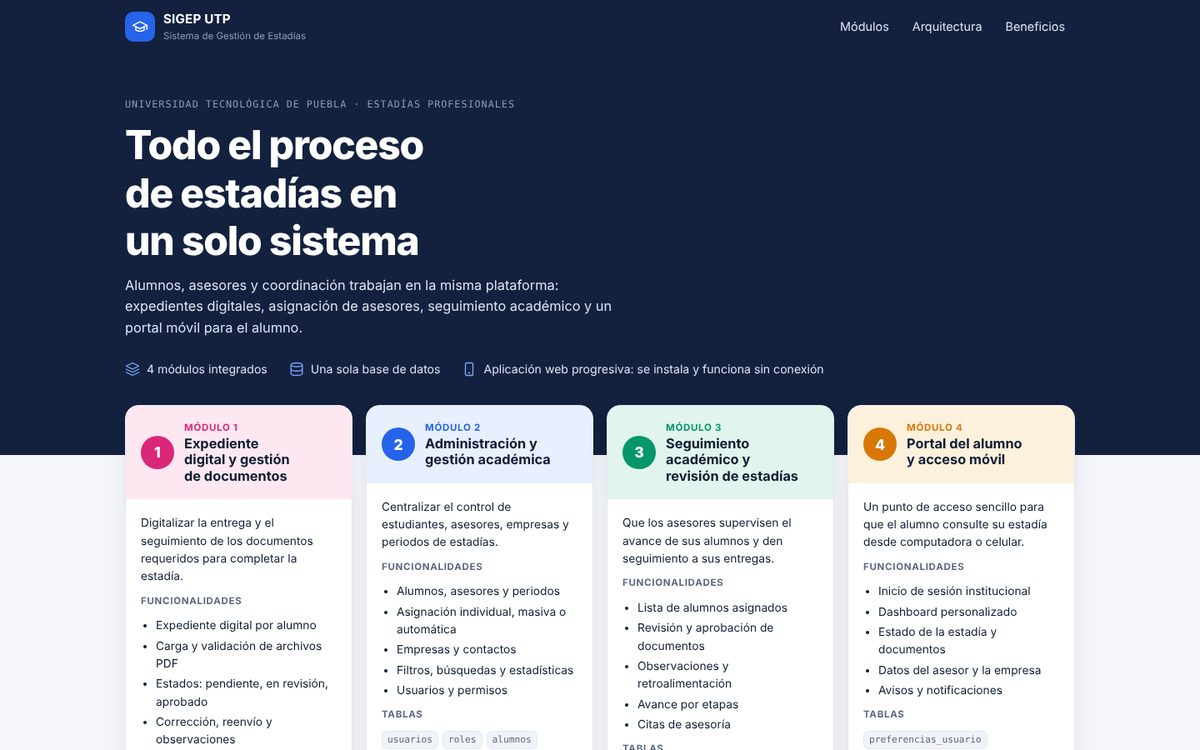
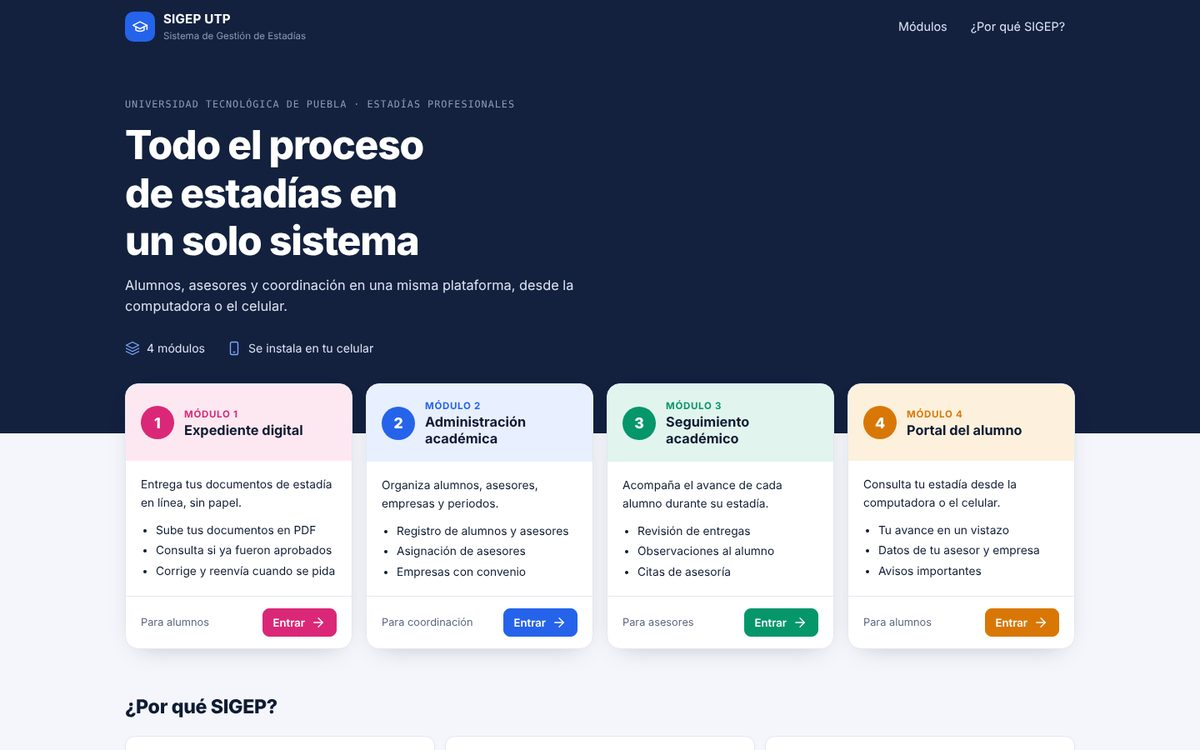
Portal: información más breve y pensada para el público
Claude-Session: https://claude.ai/code/session_01JtbevFPkcj9SLz8sLNxuvT

diff --git a/index.html b/index.html
@@ -26,7 +26,7 @@
   .facts svg.i{color:#7FA6FF}
   .mods{display:grid;grid-template-columns:repeat(4,1fr);gap:16px;margin-top:-60px}
   .mod{background:var(--surface);border:1px solid var(--line);border-radius:var(--r-lg);overflow:hidden;display:flex;flex-direction:column;box-shadow:0 10px 30px -18px rgba(15,27,51,.35)}
-  .mod-top{background:var(--acento-soft);padding:18px;display:flex;gap:12px;align-items:center}
+  .mod-top{background:var(--acento-soft);padding:18px;display:flex;gap:12px;align-items:center;min-height:92px}
   .mod-n{width:40px;height:40px;border-radius:50%;background:var(--acento);color:#fff;display:grid;place-items:center;font-weight:800;font-size:1.1rem;flex:none}
   .mod-top small{display:block;font-size:.72rem;font-weight:700;letter-spacing:.06em;text-transform:uppercase;color:var(--acento)}
   .mod-top h3{font-size:1.02rem;font-weight:700;color:var(--text)}
@@ -58,7 +58,7 @@
 <header class="p-head">
   <div class="wrap">
     <a class="logo" href="#"><span class="logo-mark"><i data-ic="cap" data-s="20"></i></span><span><b>SIGEP UTP</b><small>Sistema de Gestión de Estadías</small></span></a>
-    <nav class="p-nav"><a href="#modulos">Módulos</a><a href="#arquitectura">Arquitectura</a><a href="#beneficios">Beneficios</a></nav>
+    <nav class="p-nav"><a href="#modulos">Módulos</a><a href="#beneficios">¿Por qué SIGEP?</a></nav>
   </div>
 </header>
 
@@ -66,87 +66,60 @@
   <div class="wrap">
     <span class="eyebrow">Universidad Tecnológica de Puebla · Estadías profesionales</span>
     <h1>Todo el proceso de estadías en un solo sistema</h1>
-    <p>Alumnos, asesores y coordinación trabajan en la misma plataforma: expedientes digitales, asignación de asesores, seguimiento académico y un portal móvil para el alumno.</p>
+    <p>Alumnos, asesores y coordinación en una misma plataforma, desde la computadora o el celular.</p>
     <div class="facts">
-      <span><i data-ic="layers"></i>4 módulos integrados</span>
-      <span><i data-ic="database"></i>Una sola base de datos</span>
-      <span><i data-ic="smartphone"></i>Aplicación web progresiva: se instala y funciona sin conexión</span>
+      <span><i data-ic="layers"></i>4 módulos</span>
+            <span><i data-ic="smartphone"></i>Se instala en tu celular</span>
     </div>
   </div>
 </section>
 
-<!-- MÓDULOS: cambia cada href="..." por la dirección real del módulo de cada integrante -->
+<!-- MÓDULOS: cambia el href de cada botón "Entrar" por la dirección real de cada módulo -->
 <main class="wrap" id="modulos">
   <div class="mods">
     <article class="mod" data-modulo="1">
-      <div class="mod-top"><span class="mod-n">1</span><div><small>Módulo 1</small><h3>Expediente digital y gestión de documentos</h3></div></div>
+      <div class="mod-top"><span class="mod-n">1</span><div><small>Módulo 1</small><h3>Expediente digital</h3></div></div>
       <div class="mod-body">
-        <p class="small">Digitalizar la entrega y el seguimiento de los documentos requeridos para completar la estadía.</p>
-        <h4>Funcionalidades</h4>
-        <ul><li>Expediente digital por alumno</li><li>Carga y validación de archivos PDF</li><li>Estados: pendiente, en revisión, aprobado</li><li>Corrección, reenvío y observaciones</li><li>Historial de versiones</li></ul>
-        <h4>Tablas</h4>
-        <div class="tablas"><span>expedientes</span><span>tipos_documento</span><span>documentos</span><span>revisiones_documento</span><span>historial_documentos</span></div>
+        <p class="small">Entrega tus documentos de estadía en línea, sin papel.</p>
+        <ul><li>Sube tus documentos en PDF</li><li>Consulta si ya fueron aprobados</li><li>Corrige y reenvía cuando se pida</li></ul>
       </div>
-      <div class="mod-foot"><span>Integrante 1</span><a class="btn sm" href="ejemplos/modulo-1.html">Entrar<i data-ic="arrowR" data-s="16"></i></a></div>
+      <div class="mod-foot"><span>Para alumnos</span><a class="btn sm" href="ejemplos/modulo-1.html">Entrar<i data-ic="arrowR" data-s="16"></i></a></div>
     </article>
 
     <article class="mod" data-modulo="2">
-      <div class="mod-top"><span class="mod-n">2</span><div><small>Módulo 2</small><h3>Administración y gestión académica</h3></div></div>
+      <div class="mod-top"><span class="mod-n">2</span><div><small>Módulo 2</small><h3>Administración académica</h3></div></div>
       <div class="mod-body">
-        <p class="small">Centralizar el control de estudiantes, asesores, empresas y periodos de estadías.</p>
-        <h4>Funcionalidades</h4>
-        <ul><li>Alumnos, asesores y periodos</li><li>Asignación individual, masiva o automática</li><li>Empresas y contactos</li><li>Filtros, búsquedas y estadísticas</li><li>Usuarios y permisos</li></ul>
-        <h4>Tablas</h4>
-        <div class="tablas"><span>usuarios</span><span>roles</span><span>alumnos</span><span>asesores</span><span>periodos</span><span>asignaciones_asesor</span><span>empresas</span><span>contactos_empresa</span></div>
+        <p class="small">Organiza alumnos, asesores, empresas y periodos.</p>
+        <ul><li>Registro de alumnos y asesores</li><li>Asignación de asesores</li><li>Empresas con convenio</li></ul>
       </div>
-      <div class="mod-foot"><span>Danna Cruz</span><a class="btn sm" href="ejemplos/modulo-2.html">Entrar<i data-ic="arrowR" data-s="16"></i></a></div>
+      <div class="mod-foot"><span>Para coordinación</span><a class="btn sm" href="ejemplos/modulo-2.html">Entrar<i data-ic="arrowR" data-s="16"></i></a></div>
     </article>
 
     <article class="mod" data-modulo="3">
-      <div class="mod-top"><span class="mod-n">3</span><div><small>Módulo 3</small><h3>Seguimiento académico y revisión de estadías</h3></div></div>
+      <div class="mod-top"><span class="mod-n">3</span><div><small>Módulo 3</small><h3>Seguimiento académico</h3></div></div>
       <div class="mod-body">
-        <p class="small">Que los asesores supervisen el avance de sus alumnos y den seguimiento a sus entregas.</p>
-        <h4>Funcionalidades</h4>
-        <ul><li>Lista de alumnos asignados</li><li>Revisión y aprobación de documentos</li><li>Observaciones y retroalimentación</li><li>Avance por etapas</li><li>Citas de asesoría</li></ul>
-        <h4>Tablas</h4>
-        <div class="tablas"><span>etapas_estadia</span><span>seguimiento_estadia</span><span>observaciones</span><span>entregas_academicas</span><span>revisiones_academicas</span><span>citas_asesoria</span></div>
+        <p class="small">Acompaña el avance de cada alumno durante su estadía.</p>
+        <ul><li>Revisión de entregas</li><li>Observaciones al alumno</li><li>Citas de asesoría</li></ul>
       </div>
-      <div class="mod-foot"><span>Integrante 3</span><a class="btn sm" href="ejemplos/modulo-3.html">Entrar<i data-ic="arrowR" data-s="16"></i></a></div>
+      <div class="mod-foot"><span>Para asesores</span><a class="btn sm" href="ejemplos/modulo-3.html">Entrar<i data-ic="arrowR" data-s="16"></i></a></div>
     </article>
 
     <article class="mod" data-modulo="4">
-      <div class="mod-top"><span class="mod-n">4</span><div><small>Módulo 4</small><h3>Portal del alumno y acceso móvil</h3></div></div>
+      <div class="mod-top"><span class="mod-n">4</span><div><small>Módulo 4</small><h3>Portal del alumno</h3></div></div>
       <div class="mod-body">
-        <p class="small">Un punto de acceso sencillo para que el alumno consulte su estadía desde computadora o celular.</p>
-        <h4>Funcionalidades</h4>
-        <ul><li>Inicio de sesión institucional</li><li>Dashboard personalizado</li><li>Estado de la estadía y documentos</li><li>Datos del asesor y la empresa</li><li>Avisos y notificaciones</li></ul>
-        <h4>Tablas</h4>
-        <div class="tablas"><span>preferencias_usuario</span><span>notificaciones</span><span>avisos</span><span>destinatarios_aviso</span><span>sesiones</span></div>
+        <p class="small">Consulta tu estadía desde la computadora o el celular.</p>
+        <ul><li>Tu avance en un vistazo</li><li>Datos de tu asesor y empresa</li><li>Avisos importantes</li></ul>
       </div>
-      <div class="mod-foot"><span>Integrante 4</span><a class="btn sm" href="ejemplos/modulo-4.html">Entrar<i data-ic="arrowR" data-s="16"></i></a></div>
+      <div class="mod-foot"><span>Para alumnos</span><a class="btn sm" href="ejemplos/modulo-4.html">Entrar<i data-ic="arrowR" data-s="16"></i></a></div>
     </article>
   </div>
 
-  <section class="sec" id="arquitectura">
-    <h2>Arquitectura general</h2>
-    <p class="sub">Los cuatro módulos comparten el mismo diseño, el mismo inicio de sesión y una sola base de datos.</p>
-    <div class="arq">
-      <div class="card"><span class="ic-box"><i data-ic="grid"></i></span><b>Frontend web</b><span>Aplicación web progresiva con el diseño común SIGEP.</span></div>
-      <div class="card"><span class="ic-box"><i data-ic="smartphone"></i></span><b>Aplicación móvil</b><span>Se instala desde el navegador en Android y iPhone.</span></div>
-      <div class="card"><span class="ic-box"><i data-ic="layers"></i></span><b>Backend</b><span>API REST que atiende a los cuatro módulos.</span></div>
-      <div class="card"><span class="ic-box"><i data-ic="database"></i></span><b>Base de datos</b><span>Una sola base compartida por todo el sistema.</span></div>
-    </div>
-  </section>
-
   <section class="sec" id="beneficios">
-    <h2>Beneficios del proyecto</h2>
+    <h2>¿Por qué SIGEP?</h2>
     <div class="ben">
       <div class="card"><span class="ic-box"><i data-ic="folder"></i></span><div><b>Menos papel</b><span>Los documentos se entregan y revisan en línea.</span></div></div>
-      <div class="card"><span class="ic-box"><i data-ic="message"></i></span><div><b>Mejor comunicación</b><span>Alumnos, asesores y coordinación en un mismo lugar.</span></div></div>
       <div class="card"><span class="ic-box"><i data-ic="clock"></i></span><div><b>Seguimiento en tiempo real</b><span>El avance de cada alumno siempre está actualizado.</span></div></div>
       <div class="card"><span class="ic-box"><i data-ic="smartphone"></i></span><div><b>Acceso desde cualquier lugar</b><span>Funciona en computadora y celular.</span></div></div>
-      <div class="card"><span class="ic-box"><i data-ic="shield"></i></span><div><b>Información segura</b><span>Cada usuario ve solo lo que le corresponde.</span></div></div>
-      <div class="card"><span class="ic-box"><i data-ic="layers"></i></span><div><b>Todo centralizado</b><span>Un solo sistema para todo el proceso de estadías.</span></div></div>
     </div>
   </section>
 </main>
